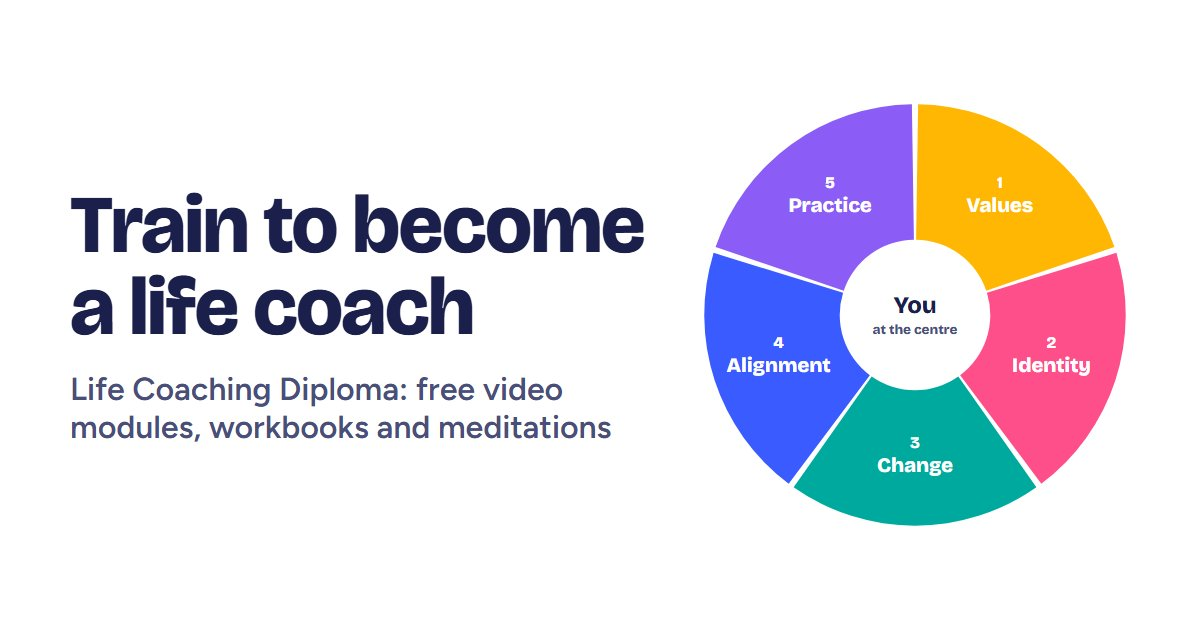
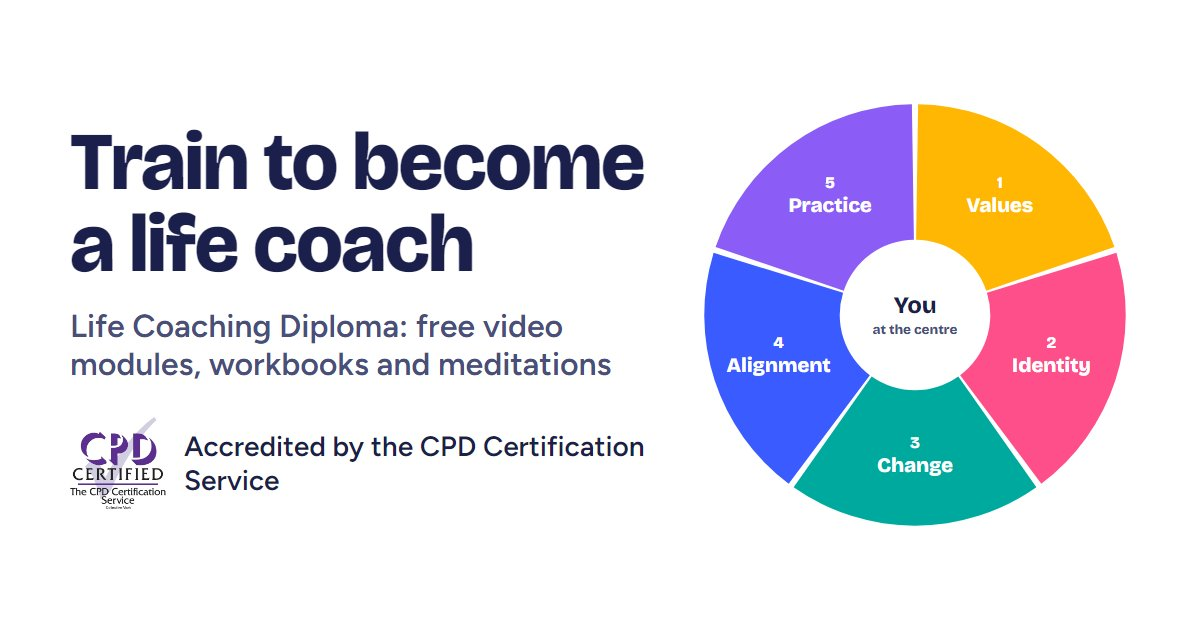
Update website

Changed region(s): [[0.0617, 0.2111, 0.555, 0.8143]]

diff --git a/privacy.html b/privacy.html
@@ -16,7 +16,7 @@
 <link rel="preconnect" href="https://fonts.googleapis.com">
 <link rel="preconnect" href="https://fonts.gstatic.com" crossorigin>
 <link href="https://fonts.googleapis.com/css2?family=Bricolage+Grotesque:opsz,wght@12..96,700;12..96,800&family=Figtree:wght@400;600;700&display=swap" rel="stylesheet">
-<link rel="stylesheet" href="/css/site.css?v=3a3e87b2">
+<link rel="stylesheet" href="/css/site.css?v=973f8e92">
 </head>
 <body>
 <a class="skip" href="#main">Skip to content</a>
@@ -35,6 +35,7 @@
 <h2>In short</h2><ul><li>You can watch the videos and download the workbooks without giving us any personal information.</li><li>This website does not set its own cookies, and does not use analytics, tracking or advertising.</li><li>We only collect information you choose to give us: in the exam, the feedback form, the booking form, by email, or when you join our community.</li><li>We never sell your information.</li></ul><h2>Who we are</h2><p>The Life Coaching Diploma (lifecoachingdiploma.com) is provided by Diet Specialist, a member of The CPD Certification Service (member no. 7085), and taught by Marwan Ghannam. We are responsible for (the &ldquo;data controller&rdquo; of) the personal information described here. Contact us about privacy at <a href="mailto:info@haqacademyhub.com">info@haqacademyhub.com</a>.</p><h2>What we collect and why</h2><ul><li><b>The exam:</b> your name, email address, answers and score. We use these to mark your assessment, send your certificate and keep a record of the certificates we issue, so that we, you or The CPD Certification Service can check a certificate later.</li><li><b>Your 40 Day Immersion:</b> the emails you send us and the work you share. We use these to give you instructions, assess your work and support you.</li><li><b>Your certificate:</b> your name, completion date and certificate number.</li><li><b>The feedback form:</b> your ratings and comments, and your name and email if you choose to give them. We use feedback to improve the course. We only quote you as a testimonial if you say we may, and in the way you choose.</li><li><b>The booking form</b> (meeting us in person): the details you enter, such as your name and contact details, so we can arrange your visit.</li><li><b>Emails and messages</b> you send us: so we can reply and help you.</li></ul><h2>Our lawful basis</h2><p>We use your information to provide the course and assessment you have asked for (a contract), for our legitimate interests in running and improving the course and keeping reliable certificate records, and with your consent where we ask for it (for example, testimonials). You can withdraw consent at any time.</p><h2>Services that handle information for us</h2><ul><li><b>Google Forms</b> (Google): the exam, feedback and booking forms. Your answers are stored in our Google account.</li><li><b>Google Fonts</b> (Google): the website&rsquo;s fonts are loaded from Google, which receives your IP address.</li><li><b>Vimeo:</b> the course videos. A video only loads when you press play, and we ask Vimeo not to track you.</li><li><b>GitHub Pages</b> (GitHub): hosts this website, and may keep basic technical logs such as IP addresses for security.</li><li><b>WhatsApp</b> (Meta) and <b>Skool:</b> our communities. If you join, the community admins can see your number or profile, but other members cannot see your number. These services have their own privacy policies.</li><li><b>Email:</b> messages you send us are held by our email provider.</li></ul><p>Some of these companies may store information outside the UK, for example in the USA. They use legal safeguards approved under UK data protection law.</p><h2>Cookies</h2><p>This website does not set any cookies of its own. Google Forms and Vimeo may set their own cookies when you use a form or play a video.</p><h2>Who we share it with</h2><p>Only the services listed above, The CPD Certification Service if they ask to check our certificate records as part of our accreditation, and anyone we are required to share it with by law. We never sell your information.</p><h2>How long we keep it</h2><ul><li>Certificate and assessment records: up to 6 years after you finish, so certificates can be checked.</li><li>Feedback: up to 3 years, or until you ask us to delete it.</li><li>Booking details and emails: up to 2 years after our last contact.</li></ul><h2>Your rights</h2><p>Under UK data protection law you can ask us to: see a copy of your information, correct it, delete it, limit how we use it, object to how we use it, or send it to you in a portable format. To do any of these, email <a href="mailto:info@haqacademyhub.com">info@haqacademyhub.com</a>. We will reply within one month.</p><p>If you are unhappy with how we have used your information, please contact us first. You can also complain to the Information Commissioner&rsquo;s Office (ICO) at <a href="https://ico.org.uk/make-a-complaint/" rel="noopener">ico.org.uk</a> or on 0303 123 1113.</p><h2>Changes to this policy</h2><p>We will update this page if anything changes, and show the date it was last updated at the top.</p></div></section>
 </main>
 <footer class="site-foot"><div class="wrap">
+  <div class="foot-cpd"><img src="/img/cpd-certified.png" width="56" height="54" alt="CPD Certified: The CPD Certification Service" loading="lazy"><span><b>Accredited by the CPD Certification Service</b><small>Diet Specialist, CPD member no. 7085</small></span></div>
   <nav aria-label="Footer"><a href="/">Home</a><a href="/teaching">Teaching</a><a href="/meditations">Meditations</a><a href="/resources">Resources</a><a href="/meet">Launch your career</a><a href="/join">Join WhatsApp</a></nav>
   <p>The Life Coaching Diploma, taught by Marwan Ghannam. Free to watch, with workbooks to download. We meet in person in Solihull, West Midlands.</p>
   <p><a href="https://chat.whatsapp.com/GF4D4uIinfY1469XuMt1mN" rel="noopener">WhatsApp group</a> · <a href="https://www.skool.com/life-coaching-8785/about" rel="noopener">Skool community</a> · <a href="/exam">Assessment</a> · <a href="/feedback">Course feedback</a> · <a href="/privacy">Privacy policy</a></p>

diff --git a/start.html b/start.html
@@ -16,7 +16,7 @@
 <link rel="preconnect" href="https://fonts.googleapis.com">
 <link rel="preconnect" href="https://fonts.gstatic.com" crossorigin>
 <link href="https://fonts.googleapis.com/css2?family=Bricolage+Grotesque:opsz,wght@12..96,700;12..96,800&family=Figtree:wght@400;600;700&display=swap" rel="stylesheet">
-<link rel="stylesheet" href="/css/site.css?v=3a3e87b2">
+<link rel="stylesheet" href="/css/site.css?v=973f8e92">
 </head>
 <body>
 <a class="skip" href="#main">Skip to content</a>
@@ -24,11 +24,13 @@
 <main id="main">
 <section class="gate"><div class="wrap narrow">
   <a class="btn wa gate-btn" href="https://chat.whatsapp.com/GF4D4uIinfY1469XuMt1mN" rel="noopener"><svg width="20" height="20" viewBox="0 0 24 24" aria-hidden="true"><path fill="currentColor" d="M12 2a10 10 0 0 0-8.6 15.1L2 22l5-1.3A10 10 0 1 0 12 2Zm0 18.2a8.2 8.2 0 0 1-4.2-1.1l-.3-.2-3 .8.8-2.9-.2-.3A8.2 8.2 0 1 1 12 20.2Zm4.5-6.1c-.2-.1-1.5-.7-1.7-.8-.2-.1-.4-.1-.6.1l-.8 1c-.1.2-.3.2-.5.1a6.7 6.7 0 0 1-3.3-2.9c-.3-.4.2-.4.7-1.4.1-.2 0-.3 0-.4l-.8-1.8c-.2-.5-.4-.4-.6-.4h-.5a1 1 0 0 0-.7.3 3 3 0 0 0-.9 2.2 5.2 5.2 0 0 0 1.1 2.7 11.8 11.8 0 0 0 4.5 4c1.7.7 2.3.8 3.2.6.5-.1 1.5-.6 1.7-1.2.2-.6.2-1.1.2-1.2-.1-.1-.3-.2-.5-.3Z"/></svg>Join the WhatsApp community</a>
+  <p class="cpd-badge"><img src="/img/cpd-certified.png" width="52" height="50" alt="CPD Certified: The CPD Certification Service">Accredited by the CPD Certification Service</p>
   <svg class="wheel" viewBox="0 0 400 400" role="img" aria-labelledby="wheel-t"><title id="wheel-t">The five modules of the Life Coaching Diploma, shown as a Wheel of Life</title><g class="sl"><g class="seg"><path d="M201.0,130.0 L202.9,4.0 A196,196 0 0 1 385.5,136.7 L266.3,177.4 A70,70 0 0 0 201.0,130.0Z" fill="#ffb703"/></g><text class="num" x="279" y="82" text-anchor="middle">1</text><text class="lbl" x="279" y="104" text-anchor="middle">Values</text></g><g class="sl"><g class="seg"><path d="M266.9,179.3 L387.3,142.2 A196,196 0 0 1 317.5,356.9 L242.0,256.0 A70,70 0 0 0 266.9,179.3Z" fill="#ff4f8b"/></g><text class="num" x="327" y="231" text-anchor="middle">2</text><text class="lbl" x="327" y="253" text-anchor="middle">Identity</text></g><g class="sl"><g class="seg"><path d="M240.3,257.2 L312.9,360.2 A196,196 0 0 1 87.1,360.2 L159.7,257.2 A70,70 0 0 0 240.3,257.2Z" fill="#00a99d"/></g><text class="num" x="200" y="324" text-anchor="middle">3</text><text class="lbl" x="200" y="346" text-anchor="middle">Change</text></g><g class="sl"><g class="seg"><path d="M158.0,256.0 L82.5,356.9 A196,196 0 0 1 12.7,142.2 L133.1,179.3 A70,70 0 0 0 158.0,256.0Z" fill="#3a5bff"/></g><text class="num" x="73" y="231" text-anchor="middle">4</text><text class="lbl" x="73" y="253" text-anchor="middle">Alignment</text></g><g class="sl"><g class="seg"><path d="M133.7,177.4 L14.5,136.7 A196,196 0 0 1 197.1,4.0 L199.0,130.0 A70,70 0 0 0 133.7,177.4Z" fill="#8b5cf6"/></g><text class="num" x="121" y="82" text-anchor="middle">5</text><text class="lbl" x="121" y="104" text-anchor="middle">Practice</text></g><circle cx="200" cy="200" r="66" fill="#fff"/><text class="hub-t" x="200" y="198" text-anchor="middle">You</text><text class="hub-s" x="200" y="218" text-anchor="middle">at the centre</text></svg>
   <div class="gate-brand"><svg width="44" height="44" viewBox="0 0 400 400" aria-hidden="true"><path d="M201.6,130.0 L204.6,4.1 A196,196 0 0 1 384.9,135.1 L266.1,176.8 A70,70 0 0 0 201.6,130.0Z" fill="#ffb703"/><path d="M267.1,179.9 L387.8,143.8 A196,196 0 0 1 318.9,355.8 L242.5,255.7 A70,70 0 0 0 267.1,179.9Z" fill="#ff4f8b"/><path d="M239.8,257.6 L311.5,361.2 A196,196 0 0 1 88.5,361.2 L160.2,257.6 A70,70 0 0 0 239.8,257.6Z" fill="#00a99d"/><path d="M157.5,255.7 L81.1,355.8 A196,196 0 0 1 12.2,143.8 L132.9,179.9 A70,70 0 0 0 157.5,255.7Z" fill="#3a5bff"/><path d="M133.9,176.8 L15.1,135.1 A196,196 0 0 1 195.4,4.1 L198.4,130.0 A70,70 0 0 0 133.9,176.8Z" fill="#8b5cf6"/><circle cx="200" cy="200" r="70" fill="#fff"/></svg><span>Life Coaching Diploma</span></div>
   <h1>Train to become a life coach</h1>
   <p class="lead">Full instructions on how to start the Life Coaching Diploma are in the description of our WhatsApp community. Click the WhatsApp button to join, then read the community description to get started.</p>
   <p class="muted">It is free, and your number will not be visible to other members.</p>
+  <div class="cpd-block"><img src="/img/cpd-certified.png" width="140" height="135" alt="CPD Certified: The CPD Certification Service" loading="lazy"><div><h2>CPD accredited</h2><p>The diploma is accredited by the CPD Certification Service, an independent body that ensures qualifications meet professional standards. This accreditation is trusted by leading organisations, including the NHS, the General Medical Council, the Health and Care Professions Council, the London School of Economics, Cancer Research UK, King&#x27;s College London and the London Stock Exchange. With this prestigious accreditation, you can be confident that our course meets the highest industry standards and is widely recognised and respected.</p></div></div>
   <a class="btn wa gate-btn gate-btn-end" href="https://chat.whatsapp.com/GF4D4uIinfY1469XuMt1mN" rel="noopener"><svg width="20" height="20" viewBox="0 0 24 24" aria-hidden="true"><path fill="currentColor" d="M12 2a10 10 0 0 0-8.6 15.1L2 22l5-1.3A10 10 0 1 0 12 2Zm0 18.2a8.2 8.2 0 0 1-4.2-1.1l-.3-.2-3 .8.8-2.9-.2-.3A8.2 8.2 0 1 1 12 20.2Zm4.5-6.1c-.2-.1-1.5-.7-1.7-.8-.2-.1-.4-.1-.6.1l-.8 1c-.1.2-.3.2-.5.1a6.7 6.7 0 0 1-3.3-2.9c-.3-.4.2-.4.7-1.4.1-.2 0-.3 0-.4l-.8-1.8c-.2-.5-.4-.4-.6-.4h-.5a1 1 0 0 0-.7.3 3 3 0 0 0-.9 2.2 5.2 5.2 0 0 0 1.1 2.7 11.8 11.8 0 0 0 4.5 4c1.7.7 2.3.8 3.2.6.5-.1 1.5-.6 1.7-1.2.2-.6.2-1.1.2-1.2-.1-.1-.3-.2-.5-.3Z"/></svg>Join the WhatsApp community</a>
 </div></section>
 </main>

diff --git a/index.html b/index.html
@@ -4,10 +4,10 @@
 <meta charset="utf-8">
 <meta name="viewport" content="width=device-width, initial-scale=1, viewport-fit=cover">
 <title>Life Coaching Diploma: train to become a life coach</title>
-<meta name="description" content="A free life coaching diploma in five video modules, with workbooks and guided meditations. Learn to coach yourself, then others, and launch your career.">
+<meta name="description" content="A free, CPD accredited life coaching diploma in five video modules, with workbooks and guided meditations. Learn to coach yourself, then others, and launch your career.">
 <link rel="canonical" href="https://lifecoachingdiploma.com">
 <meta property="og:title" content="Life Coaching Diploma: train to become a life coach">
-<meta property="og:description" content="A free life coaching diploma in five video modules, with workbooks and guided meditations. Learn to coach yourself, then others, and launch your career.">
+<meta property="og:description" content="A free, CPD accredited life coaching diploma in five video modules, with workbooks and guided meditations. Learn to coach yourself, then others, and launch your career.">
 <meta property="og:type" content="website">
 <meta property="og:url" content="https://lifecoachingdiploma.com">
 <meta property="og:image" content="https://lifecoachingdiploma.com/img/og.jpg">
@@ -16,7 +16,7 @@
 <link rel="preconnect" href="https://fonts.googleapis.com">
 <link rel="preconnect" href="https://fonts.gstatic.com" crossorigin>
 <link href="https://fonts.googleapis.com/css2?family=Bricolage+Grotesque:opsz,wght@12..96,700;12..96,800&family=Figtree:wght@400;600;700&display=swap" rel="stylesheet">
-<link rel="stylesheet" href="/css/site.css?v=3a3e87b2">
+<link rel="stylesheet" href="/css/site.css?v=973f8e92">
 </head>
 <body>
 <a class="skip" href="#main">Skip to content</a>
@@ -35,6 +35,7 @@
   <div class="btns"><a class="btn wa" href="https://chat.whatsapp.com/GF4D4uIinfY1469XuMt1mN" rel="noopener"><svg width="20" height="20" viewBox="0 0 24 24" aria-hidden="true"><path fill="currentColor" d="M12 2a10 10 0 0 0-8.6 15.1L2 22l5-1.3A10 10 0 1 0 12 2Zm0 18.2a8.2 8.2 0 0 1-4.2-1.1l-.3-.2-3 .8.8-2.9-.2-.3A8.2 8.2 0 1 1 12 20.2Zm4.5-6.1c-.2-.1-1.5-.7-1.7-.8-.2-.1-.4-.1-.6.1l-.8 1c-.1.2-.3.2-.5.1a6.7 6.7 0 0 1-3.3-2.9c-.3-.4.2-.4.7-1.4.1-.2 0-.3 0-.4l-.8-1.8c-.2-.5-.4-.4-.6-.4h-.5a1 1 0 0 0-.7.3 3 3 0 0 0-.9 2.2 5.2 5.2 0 0 0 1.1 2.7 11.8 11.8 0 0 0 4.5 4c1.7.7 2.3.8 3.2.6.5-.1 1.5-.6 1.7-1.2.2-.6.2-1.1.2-1.2-.1-.1-.3-.2-.5-.3Z"/></svg>Join the WhatsApp group</a><a class="btn" href="/teaching#module-1">Start module 1</a></div>
   <p class="lead">Five short video modules that help you understand your values and identity, make lasting change, and then guide other people to do the same.</p>
   <ul class="facts"><li class="m1">Free to watch</li><li class="m3">Workbooks to print</li><li class="m4">Launch your career</li></ul>
+  <p class="cpd-badge"><img src="/img/cpd-certified.png" width="52" height="50" alt="CPD Certified: The CPD Certification Service">Accredited by the CPD Certification Service</p>
 </div></section>
 
 <section class="alt"><div class="wrap">
@@ -48,6 +49,10 @@
     <li class="m5"><div><b>Coach others</b><span>Module 5 shows you how to start helping people and build a community.</span></div></li>
     <li class="m4"><div><b>Launch your career</b><span>Produce your own 40 Day Immersion as part of your assessment. Visiting us in person in Solihull is an optional extra.</span></div></li>
   </ol>
+</div></section>
+
+<section><div class="wrap">
+  <div class="cpd-block"><img src="/img/cpd-certified.png" width="140" height="135" alt="CPD Certified: The CPD Certification Service" loading="lazy"><div><h2>CPD accredited</h2><p>The diploma is accredited by the CPD Certification Service, an independent body that ensures qualifications meet professional standards. This accreditation is trusted by leading organisations, including the NHS, the General Medical Council, the Health and Care Professions Council, the London School of Economics, Cancer Research UK, King&#x27;s College London and the London Stock Exchange. With this prestigious accreditation, you can be confident that our course meets the highest industry standards and is widely recognised and respected.</p></div></div>
 </div></section>
 
 <section><div class="wrap">
@@ -71,6 +76,7 @@
 
 </main>
 <footer class="site-foot"><div class="wrap">
+  <div class="foot-cpd"><img src="/img/cpd-certified.png" width="56" height="54" alt="CPD Certified: The CPD Certification Service" loading="lazy"><span><b>Accredited by the CPD Certification Service</b><small>Diet Specialist, CPD member no. 7085</small></span></div>
   <nav aria-label="Footer"><a href="/">Home</a><a href="/teaching">Teaching</a><a href="/meditations">Meditations</a><a href="/resources">Resources</a><a href="/meet">Launch your career</a><a href="/join">Join WhatsApp</a></nav>
   <p>The Life Coaching Diploma, taught by Marwan Ghannam. Free to watch, with workbooks to download. We meet in person in Solihull, West Midlands.</p>
   <p><a href="https://chat.whatsapp.com/GF4D4uIinfY1469XuMt1mN" rel="noopener">WhatsApp group</a> · <a href="https://www.skool.com/life-coaching-8785/about" rel="noopener">Skool community</a> · <a href="/exam">Assessment</a> · <a href="/feedback">Course feedback</a> · <a href="/privacy">Privacy policy</a></p>

diff --git a/free.html b/free.html
@@ -17,7 +17,7 @@
 <link rel="preconnect" href="https://fonts.googleapis.com">
 <link rel="preconnect" href="https://fonts.gstatic.com" crossorigin>
 <link href="https://fonts.googleapis.com/css2?family=Bricolage+Grotesque:opsz,wght@12..96,700;12..96,800&family=Figtree:wght@400;600;700&display=swap" rel="stylesheet">
-<link rel="stylesheet" href="/css/site.css?v=3a3e87b2">
+<link rel="stylesheet" href="/css/site.css?v=973f8e92">
 </head>
 <body>
 <a class="skip" href="#main">Skip to content</a>
@@ -34,10 +34,12 @@
 <div class="free-video"><div class="vid-slot" role="img" aria-label="Video coming soon"><svg width="56" height="56" viewBox="0 0 400 400" aria-hidden="true"><path d="M201.6,130.0 L204.6,4.1 A196,196 0 0 1 384.9,135.1 L266.1,176.8 A70,70 0 0 0 201.6,130.0Z" fill="#ffb703"/><path d="M267.1,179.9 L387.8,143.8 A196,196 0 0 1 318.9,355.8 L242.5,255.7 A70,70 0 0 0 267.1,179.9Z" fill="#ff4f8b"/><path d="M239.8,257.6 L311.5,361.2 A196,196 0 0 1 88.5,361.2 L160.2,257.6 A70,70 0 0 0 239.8,257.6Z" fill="#00a99d"/><path d="M157.5,255.7 L81.1,355.8 A196,196 0 0 1 12.2,143.8 L132.9,179.9 A70,70 0 0 0 157.5,255.7Z" fill="#3a5bff"/><path d="M133.9,176.8 L15.1,135.1 A196,196 0 0 1 195.4,4.1 L198.4,130.0 A70,70 0 0 0 133.9,176.8Z" fill="#8b5cf6"/><circle cx="200" cy="200" r="70" fill="#fff"/></svg><span>Video coming soon</span></div></div>
 <div class="btns free-btns"><a class="btn wa" href="https://chat.whatsapp.com/GF4D4uIinfY1469XuMt1mN" rel="noopener"><svg width="20" height="20" viewBox="0 0 24 24" aria-hidden="true"><path fill="currentColor" d="M12 2a10 10 0 0 0-8.6 15.1L2 22l5-1.3A10 10 0 1 0 12 2Zm0 18.2a8.2 8.2 0 0 1-4.2-1.1l-.3-.2-3 .8.8-2.9-.2-.3A8.2 8.2 0 1 1 12 20.2Zm4.5-6.1c-.2-.1-1.5-.7-1.7-.8-.2-.1-.4-.1-.6.1l-.8 1c-.1.2-.3.2-.5.1a6.7 6.7 0 0 1-3.3-2.9c-.3-.4.2-.4.7-1.4.1-.2 0-.3 0-.4l-.8-1.8c-.2-.5-.4-.4-.6-.4h-.5a1 1 0 0 0-.7.3 3 3 0 0 0-.9 2.2 5.2 5.2 0 0 0 1.1 2.7 11.8 11.8 0 0 0 4.5 4c1.7.7 2.3.8 3.2.6.5-.1 1.5-.6 1.7-1.2.2-.6.2-1.1.2-1.2-.1-.1-.3-.2-.5-.3Z"/></svg>Join the WhatsApp community</a></div>
 <p class="lead">To gain access to the full training without needing to register your email, just click to join the WhatsApp community below. The full training is in the WhatsApp community description and is completely free! Your number will not be visible to others.</p>
+<div class="cpd-block"><img src="/img/cpd-certified.png" width="140" height="135" alt="CPD Certified: The CPD Certification Service" loading="lazy"><div><h2>CPD accredited</h2><p>The diploma is accredited by the CPD Certification Service, an independent body that ensures qualifications meet professional standards. This accreditation is trusted by leading organisations, including the NHS, the General Medical Council, the Health and Care Professions Council, the London School of Economics, Cancer Research UK, King&#x27;s College London and the London Stock Exchange. With this prestigious accreditation, you can be confident that our course meets the highest industry standards and is widely recognised and respected.</p></div></div>
 <div class="btns free-btns"><a class="btn wa" href="https://chat.whatsapp.com/GF4D4uIinfY1469XuMt1mN" rel="noopener"><svg width="20" height="20" viewBox="0 0 24 24" aria-hidden="true"><path fill="currentColor" d="M12 2a10 10 0 0 0-8.6 15.1L2 22l5-1.3A10 10 0 1 0 12 2Zm0 18.2a8.2 8.2 0 0 1-4.2-1.1l-.3-.2-3 .8.8-2.9-.2-.3A8.2 8.2 0 1 1 12 20.2Zm4.5-6.1c-.2-.1-1.5-.7-1.7-.8-.2-.1-.4-.1-.6.1l-.8 1c-.1.2-.3.2-.5.1a6.7 6.7 0 0 1-3.3-2.9c-.3-.4.2-.4.7-1.4.1-.2 0-.3 0-.4l-.8-1.8c-.2-.5-.4-.4-.6-.4h-.5a1 1 0 0 0-.7.3 3 3 0 0 0-.9 2.2 5.2 5.2 0 0 0 1.1 2.7 11.8 11.8 0 0 0 4.5 4c1.7.7 2.3.8 3.2.6.5-.1 1.5-.6 1.7-1.2.2-.6.2-1.1.2-1.2-.1-.1-.3-.2-.5-.3Z"/></svg>Join the WhatsApp community</a></div>
 </div></section>
 </main>
 <footer class="site-foot"><div class="wrap">
+  <div class="foot-cpd"><img src="/img/cpd-certified.png" width="56" height="54" alt="CPD Certified: The CPD Certification Service" loading="lazy"><span><b>Accredited by the CPD Certification Service</b><small>Diet Specialist, CPD member no. 7085</small></span></div>
   <nav aria-label="Footer"><a href="/">Home</a><a href="/teaching">Teaching</a><a href="/meditations">Meditations</a><a href="/resources">Resources</a><a href="/meet">Launch your career</a><a href="/join">Join WhatsApp</a></nav>
   <p>The Life Coaching Diploma, taught by Marwan Ghannam. Free to watch, with workbooks to download. We meet in person in Solihull, West Midlands.</p>
   <p><a href="https://chat.whatsapp.com/GF4D4uIinfY1469XuMt1mN" rel="noopener">WhatsApp group</a> · <a href="https://www.skool.com/life-coaching-8785/about" rel="noopener">Skool community</a> · <a href="/exam">Assessment</a> · <a href="/feedback">Course feedback</a> · <a href="/privacy">Privacy policy</a></p>

diff --git a/exam.html b/exam.html
@@ -16,7 +16,7 @@
 <link rel="preconnect" href="https://fonts.googleapis.com">
 <link rel="preconnect" href="https://fonts.gstatic.com" crossorigin>
 <link href="https://fonts.googleapis.com/css2?family=Bricolage+Grotesque:opsz,wght@12..96,700;12..96,800&family=Figtree:wght@400;600;700&display=swap" rel="stylesheet">
-<link rel="stylesheet" href="/css/site.css?v=3a3e87b2">
+<link rel="stylesheet" href="/css/site.css?v=973f8e92">
 </head>
 <body>
 <a class="skip" href="#main">Skip to content</a>
@@ -30,7 +30,8 @@
 <main id="main">
 <section class="page-hero"><div class="wrap narrow">
 <h1>Your assessment</h1>
-<p class="lead">The Life Coaching Diploma assessment has two parts. Complete both to receive your certificate.</p>
+<p class="lead">The Life Coaching Diploma assessment has two parts. Complete both to receive your CPD accredited certificate.</p>
+<p class="cpd-badge"><img src="/img/cpd-certified.png" width="52" height="50" alt="CPD Certified: The CPD Certification Service">Accredited by the CPD Certification Service</p>
 <div class="place">
   <div class="panel m4"><h3>Part 1: the exam</h3><p class="muted" style="margin:0">30 multiple choice questions covering all five modules. Take it below.</p></div>
   <div class="panel m1"><h3>Part 2: your 40 Day Immersion</h3><p class="muted" style="margin:0">40 daily tasks that help people align their life with their values. Email us first for instructions. <a href="#immersion">See how</a>.</p></div>
@@ -38,7 +39,7 @@
 <h2 style="margin-top:30px">Part 1: the exam</h2>
 <p class="muted">30 multiple choice questions, 1 point each. Allow about 30 minutes. Enter your name and email, answer every question, then press Submit to see your score straight away.</p>
 <div class="place">
-  <div class="panel m3"><h3>Pass mark: 70% (21 out of 30)</h3><p class="muted" style="margin:0">Pass the exam and complete your 40 Day Immersion, and we will email your Life Coaching Diploma certificate within 7 days.</p></div>
+  <div class="panel m3"><h3>Pass mark: 70% (21 out of 30)</h3><p class="muted" style="margin:0">Pass the exam and complete your 40 Day Immersion, and we will email your CPD accredited Life Coaching Diploma certificate (8 CPD hours) within 7 days.</p></div>
   <div class="panel m2"><h3>Did not pass?</h3><p class="muted" style="margin:0">Go back over the modules and workbooks for the topics you found difficult, then resit after at least 24 hours. There is no limit on resits.</p></div>
 </div>
 <p class="muted">Not finished the modules yet? <a href="/teaching">Watch the teaching videos</a> first.</p>
@@ -64,6 +65,7 @@
 </div></section>
 </main>
 <footer class="site-foot"><div class="wrap">
+  <div class="foot-cpd"><img src="/img/cpd-certified.png" width="56" height="54" alt="CPD Certified: The CPD Certification Service" loading="lazy"><span><b>Accredited by the CPD Certification Service</b><small>Diet Specialist, CPD member no. 7085</small></span></div>
   <nav aria-label="Footer"><a href="/">Home</a><a href="/teaching">Teaching</a><a href="/meditations">Meditations</a><a href="/resources">Resources</a><a href="/meet">Launch your career</a><a href="/join">Join WhatsApp</a></nav>
   <p>The Life Coaching Diploma, taught by Marwan Ghannam. Free to watch, with workbooks to download. We meet in person in Solihull, West Midlands.</p>
   <p><a href="https://chat.whatsapp.com/GF4D4uIinfY1469XuMt1mN" rel="noopener">WhatsApp group</a> · <a href="https://www.skool.com/life-coaching-8785/about" rel="noopener">Skool community</a> · <a href="/exam">Assessment</a> · <a href="/feedback">Course feedback</a> · <a href="/privacy">Privacy policy</a></p>

diff --git a/css/site.css b/css/site.css
@@ -181,6 +181,27 @@ section.alt { background: var(--sky); }
 .gate-btn-end { margin-top: 26px; }
 .gate .wheel { display: block; width: min(100%, 320px); margin: 18px auto 0; }
 
+/* ---------- CPD accreditation */
+.cpd-badge { display: flex; align-items: center; gap: 12px; margin: 0; font-weight: 700; color: var(--ink); line-height: 1.3; }
+.cpd-badge img { width: 52px; height: auto; flex: none; }
+.page-hero .cpd-badge { margin-top: 14px; }
+.cpd-block { display: grid; gap: 14px; justify-items: center; text-align: center; padding: 24px 20px; border: 2px solid var(--line); border-radius: var(--radius); background: #fff; }
+.cpd-block img { width: 120px; height: auto; }
+.cpd-block h2 { margin: 0 0 8px; }
+.cpd-block p { margin: 0; color: var(--ink-soft); }
+.gate .cpd-block, .free .cpd-block { margin-top: 26px; }
+.gate .cpd-badge { justify-content: center; margin-top: 14px; text-align: left; }
+.gate .cpd-badge img { width: 64px; }
+.free .cpd-block { margin-bottom: 18px; }
+.foot-cpd { display: flex; align-items: center; gap: 12px; margin-bottom: 16px; }
+.foot-cpd img { width: 56px; height: auto; flex: none; }
+.foot-cpd b { display: block; color: var(--ink); }
+.foot-cpd small { font-size: .9rem; }
+@media (min-width: 48rem) {
+  .cpd-block { grid-template-columns: 140px 1fr; justify-items: start; text-align: left; align-items: center; gap: 28px; padding: 28px 32px; }
+  .cpd-block img { width: 140px; }
+}
+
 /* ---------- privacy policy and other long text */
 .prose h2 { font-size: 1.35rem; margin: 30px 0 8px; }
 .prose ul { padding-left: 1.2em; }
@@ -232,11 +253,12 @@ section.alt { background: var(--sky); }
   .tabs a::before { width: 8px; height: 8px; }
   .head-in { flex-wrap: nowrap; }
   .hero { padding: 64px 0 72px; }
-  .hero-grid { grid-template-columns: 1.1fr .9fr; grid-template-areas: "title wheel" "lead wheel" "btns wheel" "facts wheel"; column-gap: 40px; row-gap: 18px; align-content: center; }
+  .hero-grid { grid-template-columns: 1.1fr .9fr; grid-template-areas: "title wheel" "lead wheel" "btns wheel" "facts wheel" "cpd wheel"; column-gap: 40px; row-gap: 18px; align-content: center; }
   .hero h1 { grid-area: title; align-self: end; }
   .hero .lead { grid-area: lead; }
   .hero .btns { grid-area: btns; }
   .hero .facts { grid-area: facts; align-self: start; }
+  .hero .cpd-badge { grid-area: cpd; align-self: start; }
   .wheel { grid-area: wheel; align-self: center; width: 100%; max-width: 480px; }
   .vcard.wide { display: grid; grid-template-columns: 1.15fr 1fr; }
   .vcard.wide .vid { height: 100%; aspect-ratio: auto; min-height: 300px; }

diff --git a/meet.html b/meet.html
@@ -16,7 +16,7 @@
 <link rel="preconnect" href="https://fonts.googleapis.com">
 <link rel="preconnect" href="https://fonts.gstatic.com" crossorigin>
 <link href="https://fonts.googleapis.com/css2?family=Bricolage+Grotesque:opsz,wght@12..96,700;12..96,800&family=Figtree:wght@400;600;700&display=swap" rel="stylesheet">
-<link rel="stylesheet" href="/css/site.css?v=3a3e87b2">
+<link rel="stylesheet" href="/css/site.css?v=973f8e92">
 </head>
 <body>
 <a class="skip" href="#main">Skip to content</a>
@@ -31,6 +31,7 @@
 <section class="page-hero"><div class="wrap narrow">
 <h1>Launch your career</h1>
 <p class="lead">You have learnt the theory. Now put it into practice and launch your career as a life coach.</p>
+<p class="cpd-badge"><img src="/img/cpd-certified.png" width="52" height="50" alt="CPD Certified: The CPD Certification Service">Accredited by the CPD Certification Service</p>
 <div class="place">
   <div class="panel m1"><h3>Your 40 Day Immersion</h3><p class="muted">Produce 40 daily tasks that help people align their life with their values. This is part of your assessment: email us first for instructions.</p><a class="pdf" href="/exam#immersion">See how to start</a></div>
   <div class="panel m4"><h3>Optional extra: meet us in person</h3><p class="muted">Come and see us face to face in Solihull, West Midlands, to talk through your progress and plan your next steps as a coach. Not required, but you are very welcome.</p><a class="pdf" href="#book">Book below</a></div>
@@ -43,6 +44,7 @@
 </div></section>
 </main>
 <footer class="site-foot"><div class="wrap">
+  <div class="foot-cpd"><img src="/img/cpd-certified.png" width="56" height="54" alt="CPD Certified: The CPD Certification Service" loading="lazy"><span><b>Accredited by the CPD Certification Service</b><small>Diet Specialist, CPD member no. 7085</small></span></div>
   <nav aria-label="Footer"><a href="/">Home</a><a href="/teaching">Teaching</a><a href="/meditations">Meditations</a><a href="/resources">Resources</a><a href="/meet">Launch your career</a><a href="/join">Join WhatsApp</a></nav>
   <p>The Life Coaching Diploma, taught by Marwan Ghannam. Free to watch, with workbooks to download. We meet in person in Solihull, West Midlands.</p>
   <p><a href="https://chat.whatsapp.com/GF4D4uIinfY1469XuMt1mN" rel="noopener">WhatsApp group</a> · <a href="https://www.skool.com/life-coaching-8785/about" rel="noopener">Skool community</a> · <a href="/exam">Assessment</a> · <a href="/feedback">Course feedback</a> · <a href="/privacy">Privacy policy</a></p>

diff --git a/meditations.html b/meditations.html
@@ -16,7 +16,7 @@
 <link rel="preconnect" href="https://fonts.googleapis.com">
 <link rel="preconnect" href="https://fonts.gstatic.com" crossorigin>
 <link href="https://fonts.googleapis.com/css2?family=Bricolage+Grotesque:opsz,wght@12..96,700;12..96,800&family=Figtree:wght@400;600;700&display=swap" rel="stylesheet">
-<link rel="stylesheet" href="/css/site.css?v=3a3e87b2">
+<link rel="stylesheet" href="/css/site.css?v=973f8e92">
 </head>
 <body>
 <a class="skip" href="#main">Skip to content</a>
@@ -39,6 +39,7 @@
 <p style="margin-top:22px"><a class="pdf" href="/downloads/meditation-guide.pdf" download><svg width="18" height="18" viewBox="0 0 24 24" aria-hidden="true"><path fill="currentColor" d="M12 16 6 10h4V3h4v7h4l-6 6Zm-8 3h16v2H4v-2Z"/></svg>Download the meditation guide and 30 day peace log (PDF)</a></p></div></section>
 </main>
 <footer class="site-foot"><div class="wrap">
+  <div class="foot-cpd"><img src="/img/cpd-certified.png" width="56" height="54" alt="CPD Certified: The CPD Certification Service" loading="lazy"><span><b>Accredited by the CPD Certification Service</b><small>Diet Specialist, CPD member no. 7085</small></span></div>
   <nav aria-label="Footer"><a href="/">Home</a><a href="/teaching">Teaching</a><a href="/meditations">Meditations</a><a href="/resources">Resources</a><a href="/meet">Launch your career</a><a href="/join">Join WhatsApp</a></nav>
   <p>The Life Coaching Diploma, taught by Marwan Ghannam. Free to watch, with workbooks to download. We meet in person in Solihull, West Midlands.</p>
   <p><a href="https://chat.whatsapp.com/GF4D4uIinfY1469XuMt1mN" rel="noopener">WhatsApp group</a> · <a href="https://www.skool.com/life-coaching-8785/about" rel="noopener">Skool community</a> · <a href="/exam">Assessment</a> · <a href="/feedback">Course feedback</a> · <a href="/privacy">Privacy policy</a></p>

diff --git a/teaching.html b/teaching.html
@@ -16,7 +16,7 @@
 <link rel="preconnect" href="https://fonts.googleapis.com">
 <link rel="preconnect" href="https://fonts.gstatic.com" crossorigin>
 <link href="https://fonts.googleapis.com/css2?family=Bricolage+Grotesque:opsz,wght@12..96,700;12..96,800&family=Figtree:wght@400;600;700&display=swap" rel="stylesheet">
-<link rel="stylesheet" href="/css/site.css?v=3a3e87b2">
+<link rel="stylesheet" href="/css/site.css?v=973f8e92">
 </head>
 <body>
 <a class="skip" href="#main">Skip to content</a>
@@ -49,6 +49,7 @@
 <div class="btns"><a class="btn" href="/meet" style="background:#fff;border-color:#fff;color:var(--ink)">Book your review</a></div></div></div></section>
 </main>
 <footer class="site-foot"><div class="wrap">
+  <div class="foot-cpd"><img src="/img/cpd-certified.png" width="56" height="54" alt="CPD Certified: The CPD Certification Service" loading="lazy"><span><b>Accredited by the CPD Certification Service</b><small>Diet Specialist, CPD member no. 7085</small></span></div>
   <nav aria-label="Footer"><a href="/">Home</a><a href="/teaching">Teaching</a><a href="/meditations">Meditations</a><a href="/resources">Resources</a><a href="/meet">Launch your career</a><a href="/join">Join WhatsApp</a></nav>
   <p>The Life Coaching Diploma, taught by Marwan Ghannam. Free to watch, with workbooks to download. We meet in person in Solihull, West Midlands.</p>
   <p><a href="https://chat.whatsapp.com/GF4D4uIinfY1469XuMt1mN" rel="noopener">WhatsApp group</a> · <a href="https://www.skool.com/life-coaching-8785/about" rel="noopener">Skool community</a> · <a href="/exam">Assessment</a> · <a href="/feedback">Course feedback</a> · <a href="/privacy">Privacy policy</a></p>

diff --git a/feedback.html b/feedback.html
@@ -16,7 +16,7 @@
 <link rel="preconnect" href="https://fonts.googleapis.com">
 <link rel="preconnect" href="https://fonts.gstatic.com" crossorigin>
 <link href="https://fonts.googleapis.com/css2?family=Bricolage+Grotesque:opsz,wght@12..96,700;12..96,800&family=Figtree:wght@400;600;700&display=swap" rel="stylesheet">
-<link rel="stylesheet" href="/css/site.css?v=3a3e87b2">
+<link rel="stylesheet" href="/css/site.css?v=973f8e92">
 </head>
 <body>
 <a class="skip" href="#main">Skip to content</a>
@@ -36,6 +36,7 @@
 </div></section>
 </main>
 <footer class="site-foot"><div class="wrap">
+  <div class="foot-cpd"><img src="/img/cpd-certified.png" width="56" height="54" alt="CPD Certified: The CPD Certification Service" loading="lazy"><span><b>Accredited by the CPD Certification Service</b><small>Diet Specialist, CPD member no. 7085</small></span></div>
   <nav aria-label="Footer"><a href="/">Home</a><a href="/teaching">Teaching</a><a href="/meditations">Meditations</a><a href="/resources">Resources</a><a href="/meet">Launch your career</a><a href="/join">Join WhatsApp</a></nav>
   <p>The Life Coaching Diploma, taught by Marwan Ghannam. Free to watch, with workbooks to download. We meet in person in Solihull, West Midlands.</p>
   <p><a href="https://chat.whatsapp.com/GF4D4uIinfY1469XuMt1mN" rel="noopener">WhatsApp group</a> · <a href="https://www.skool.com/life-coaching-8785/about" rel="noopener">Skool community</a> · <a href="/exam">Assessment</a> · <a href="/feedback">Course feedback</a> · <a href="/privacy">Privacy policy</a></p>

diff --git a/join.html b/join.html
@@ -16,7 +16,7 @@
 <link rel="preconnect" href="https://fonts.googleapis.com">
 <link rel="preconnect" href="https://fonts.gstatic.com" crossorigin>
 <link href="https://fonts.googleapis.com/css2?family=Bricolage+Grotesque:opsz,wght@12..96,700;12..96,800&family=Figtree:wght@400;600;700&display=swap" rel="stylesheet">
-<link rel="stylesheet" href="/css/site.css?v=3a3e87b2">
+<link rel="stylesheet" href="/css/site.css?v=973f8e92">
 </head>
 <body>
 <a class="skip" href="#main">Skip to content</a>
@@ -45,6 +45,7 @@
 </div></section>
 </main>
 <footer class="site-foot"><div class="wrap">
+  <div class="foot-cpd"><img src="/img/cpd-certified.png" width="56" height="54" alt="CPD Certified: The CPD Certification Service" loading="lazy"><span><b>Accredited by the CPD Certification Service</b><small>Diet Specialist, CPD member no. 7085</small></span></div>
   <nav aria-label="Footer"><a href="/">Home</a><a href="/teaching">Teaching</a><a href="/meditations">Meditations</a><a href="/resources">Resources</a><a href="/meet">Launch your career</a><a href="/join">Join WhatsApp</a></nav>
   <p>The Life Coaching Diploma, taught by Marwan Ghannam. Free to watch, with workbooks to download. We meet in person in Solihull, West Midlands.</p>
   <p><a href="https://chat.whatsapp.com/GF4D4uIinfY1469XuMt1mN" rel="noopener">WhatsApp group</a> · <a href="https://www.skool.com/life-coaching-8785/about" rel="noopener">Skool community</a> · <a href="/exam">Assessment</a> · <a href="/feedback">Course feedback</a> · <a href="/privacy">Privacy policy</a></p>

diff --git a/resources.html b/resources.html
@@ -16,7 +16,7 @@
 <link rel="preconnect" href="https://fonts.googleapis.com">
 <link rel="preconnect" href="https://fonts.gstatic.com" crossorigin>
 <link href="https://fonts.googleapis.com/css2?family=Bricolage+Grotesque:opsz,wght@12..96,700;12..96,800&family=Figtree:wght@400;600;700&display=swap" rel="stylesheet">
-<link rel="stylesheet" href="/css/site.css?v=3a3e87b2">
+<link rel="stylesheet" href="/css/site.css?v=973f8e92">
 </head>
 <body>
 <a class="skip" href="#main">Skip to content</a>
@@ -45,6 +45,7 @@
 </div></section>
 </main>
 <footer class="site-foot"><div class="wrap">
+  <div class="foot-cpd"><img src="/img/cpd-certified.png" width="56" height="54" alt="CPD Certified: The CPD Certification Service" loading="lazy"><span><b>Accredited by the CPD Certification Service</b><small>Diet Specialist, CPD member no. 7085</small></span></div>
   <nav aria-label="Footer"><a href="/">Home</a><a href="/teaching">Teaching</a><a href="/meditations">Meditations</a><a href="/resources">Resources</a><a href="/meet">Launch your career</a><a href="/join">Join WhatsApp</a></nav>
   <p>The Life Coaching Diploma, taught by Marwan Ghannam. Free to watch, with workbooks to download. We meet in person in Solihull, West Midlands.</p>
   <p><a href="https://chat.whatsapp.com/GF4D4uIinfY1469XuMt1mN" rel="noopener">WhatsApp group</a> · <a href="https://www.skool.com/life-coaching-8785/about" rel="noopener">Skool community</a> · <a href="/exam">Assessment</a> · <a href="/feedback">Course feedback</a> · <a href="/privacy">Privacy policy</a></p>
